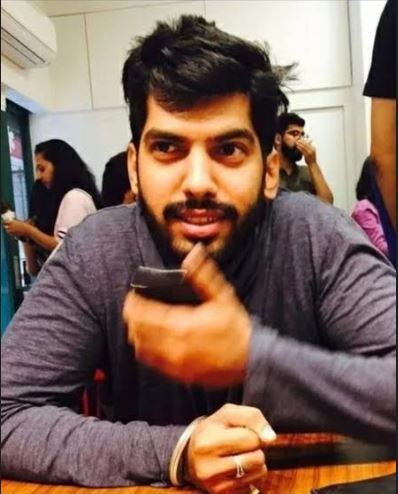
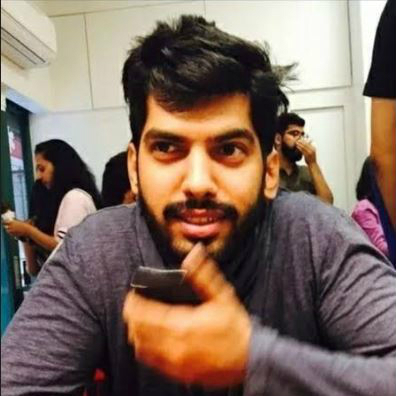
Fixed stretched images

diff --git a/application/view/lidiyas.html b/application/view/lidiyas.html
@@ -6,7 +6,7 @@
 </head>
 <body>
     <h2>Lidiya Jebessa</h2>
-    <img src="images/big pic.jpeg" width="476" height="480">
+    <img src="images/lidiya.jpg" width="476" height="480">
     <p>hsaini@mail.sfsu.edu</p>
     <a href="https://github.com/ljebessa">Github</a>
 </body>
